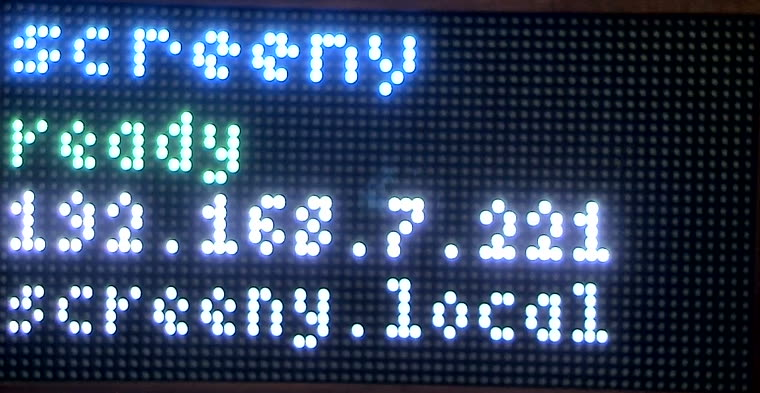
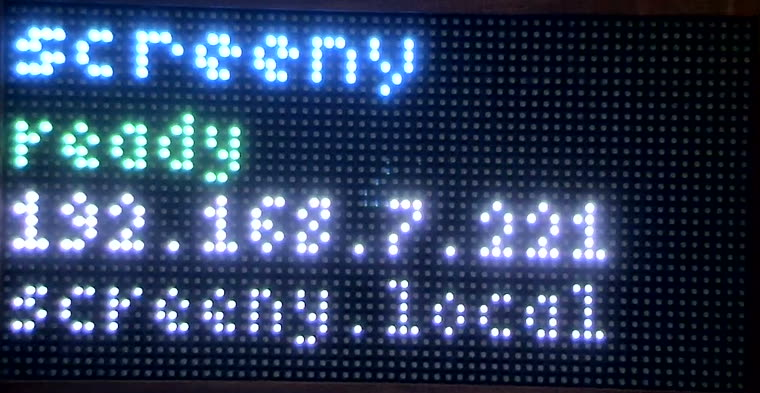
Card 007 -> review, with cards 020 and 030 answered alongside it
Device left running this build: boots, associates, DHCP 192.168.7.221, mDNS up,
UDP 49374 listening, 154 swaps/s, render 3.1 ms, heap 45416/69272, status
screen with a readable IP at the default brightness.

Also added patterns::GhostRow, the single-lit-row probe that actually measures
ghosting, so the next person does not have to push it from a script, and a note
on the block ghost pattern that 1/16 scan couples row y with row y+16 - which
its own tall white block happens to sit on top of.

Changed region(s): [[0.0, 0.0, 0.9987, 1.0], [0.1816, 0.6718, 0.2118, 0.7023]]

diff --git a/firmware/src/patterns.rs b/firmware/src/patterns.rs
@@ -35,6 +35,9 @@ pub enum Pattern {
     DarkRamp = 6,
     /// Flat sRGB 128 grey. Mid-grey must not read as white.
     MidGrey = 7,
+    /// One lit row on black. The pattern that actually measures ghosting; see
+    /// [`ghost_row`] and card 007's log.
+    GhostRow = 8,
 }
 
 impl Pattern {
@@ -48,6 +51,7 @@ impl Pattern {
             5 => Pattern::GreySteps,
             6 => Pattern::DarkRamp,
             7 => Pattern::MidGrey,
+            8 => Pattern::GhostRow,
             _ => return None,
         })
     }
@@ -64,6 +68,7 @@ pub fn draw(frame: &mut Frame, pattern: Pattern) {
         Pattern::GreySteps => grey_steps(frame),
         Pattern::DarkRamp => dark_ramp(frame),
         Pattern::MidGrey => fill(frame, [128, 128, 128]),
+        Pattern::GhostRow => ghost_row(frame),
     }
 }
 
@@ -147,9 +152,34 @@ fn bands(frame: &mut Frame) {
     }
 }
 
+/// The row that measures ghosting: one lit row, black everywhere else.
+///
+/// [`ghost`] is the pattern you look at; this is the one you measure, and card
+/// 007 needed it because the camera bleeds a lit LED several rows into its
+/// neighbours and a block pattern cannot tell that bloom from a ghost.
+///
+/// Ghosting is **one-sided** — a faint copy appears below a lit row, never
+/// above — while bloom, lens flare and any residual grid misalignment are
+/// symmetric. So the measurement is the row above against the row below, at
+/// the same distance, which needs no exposure calibration. Card 007 got 1.00
+/// against a method that moves 2.3x for a 6% ghost.
+///
+/// Row 8 specifically: 1/16 scan drives panel rows `y` and `y + 16` together,
+/// so lighting row 8 in the upper half leaves rows 24 and 25 as a control for
+/// leakage across the halves, and rows 0-7 and 10-15 as clean background.
+fn ghost_row(frame: &mut Frame) {
+    for x in 0..COLS {
+        frame.set(x, 8, [255, 255, 255]);
+    }
+}
+
 /// Three lit blocks with four blank rows under each. Ghosting on this panel
-/// is a faint copy of a lit row appearing one or two rows below it, so the
-/// blank rows are the measurement and the colours say which channel leaks.
+/// would be a faint copy of a lit row appearing one or two rows below it, so
+/// the blank rows are the measurement and the colours say which channel leaks.
+///
+/// Note when reading it that 1/16 scan couples `y` with `y + 16`: the copy of
+/// the top-left block lands on row 22, where the tall white block already is.
+/// Use [`ghost_row`] for anything quantitative.
 fn ghost(frame: &mut Frame) {
     rect(frame, 4, 2, 24, 4, [255, 255, 255]);
     rect(frame, 34, 2, 24, 4, [255, 0, 0]);

diff --git a/firmware/src/testcmd.rs b/firmware/src/testcmd.rs
@@ -11,7 +11,7 @@
 //! what the card 001 spike accepted and what card 001's notes describe.
 //!
 //! ```text
-//! "SX" 'P' n        show built-in pattern n (0..=7, see `patterns`)
+//! "SX" 'P' n        show built-in pattern n (0..=8, see `patterns`)
 //! "SX" 'C' -        release the pattern, go back to stream/status
 //! "SX" 'B' n        brightness 0..=255 (output-enable duty, power-capped)
 //! "SX" 'O' n        RAW output-enable slots, ignoring the cap. BENCH ONLY:

diff --git a/docs/board/review/007-firmware-display.md b/docs/board/review/007-firmware-display.md
@@ -419,9 +419,16 @@ then the IP and `screeny.local`, in `embedded-graphics`' `FONT_5X7` and
 through the same gamma and brightness path — a status screen that ignored the
 brightness setting would be the one thing on the device that could dazzle you.
 
-`192.168.7.221` is legible in the capture.
+`192.168.7.221` is legible in the capture (`captures/c007b-final-status.jpg`),
+and unambiguous in the per-LED rendering of the same screen at brightness 32.
 
 ![status screen](../../research/img/c007-status-screen.jpg)
+![status screen, per LED](../../research/img/c007-status-screen-perled.jpg)
+
+Note for whoever photographs this next: the camera's autofocus sometimes hunts
+and comes back soft enough to make the IP unreadable (`captures/c007b-final.jpg`
+is an example, taken 30 s before the good one). If a capture looks like that,
+just ask for another.
 
 One fix: `Net::Lost` existed but nothing ever constructed it, so a device that
 associated and then lost the AP would have shown "joining wifi" forever. The
@@ -552,3 +559,20 @@ named configuration, is untouched and unblocked.
   auto-exposure. Card 061 records what a fixed-exposure capture path would buy,
   since card 012 will want it too.
 - `set_oe_slots` / `set_oe_window` are worth offering upstream. Card 060.
+
+### Final state
+
+`c007b-final.log`: boots, associates, DHCP 192.168.7.221, mDNS up, UDP 49374
+listening, 154 swaps/s, render 3.1 ms, heap 45416/69272. The device is left
+running this build at the default brightness 96 showing the status screen.
+
+Added while finishing: `patterns::GhostRow` (pattern 8), the single-lit-row
+probe that actually measures ghosting, so the next person does not have to push
+it from a script; and a note on `ghost` that 1/16 scan couples row `y` with
+`y + 16`, which its own tall white block sits on top of.
+
+The measurement scripts used here (LED-grid fit and centre sampling, the
+swapped split-field ratio, the step reader, the frame pushers) stayed in the
+session scratchpad deliberately. Card 012 owns the real homography and card 061
+the exposure problem; committing a throwaway version of either would give the
+next worker something to trust that should not be trusted.
